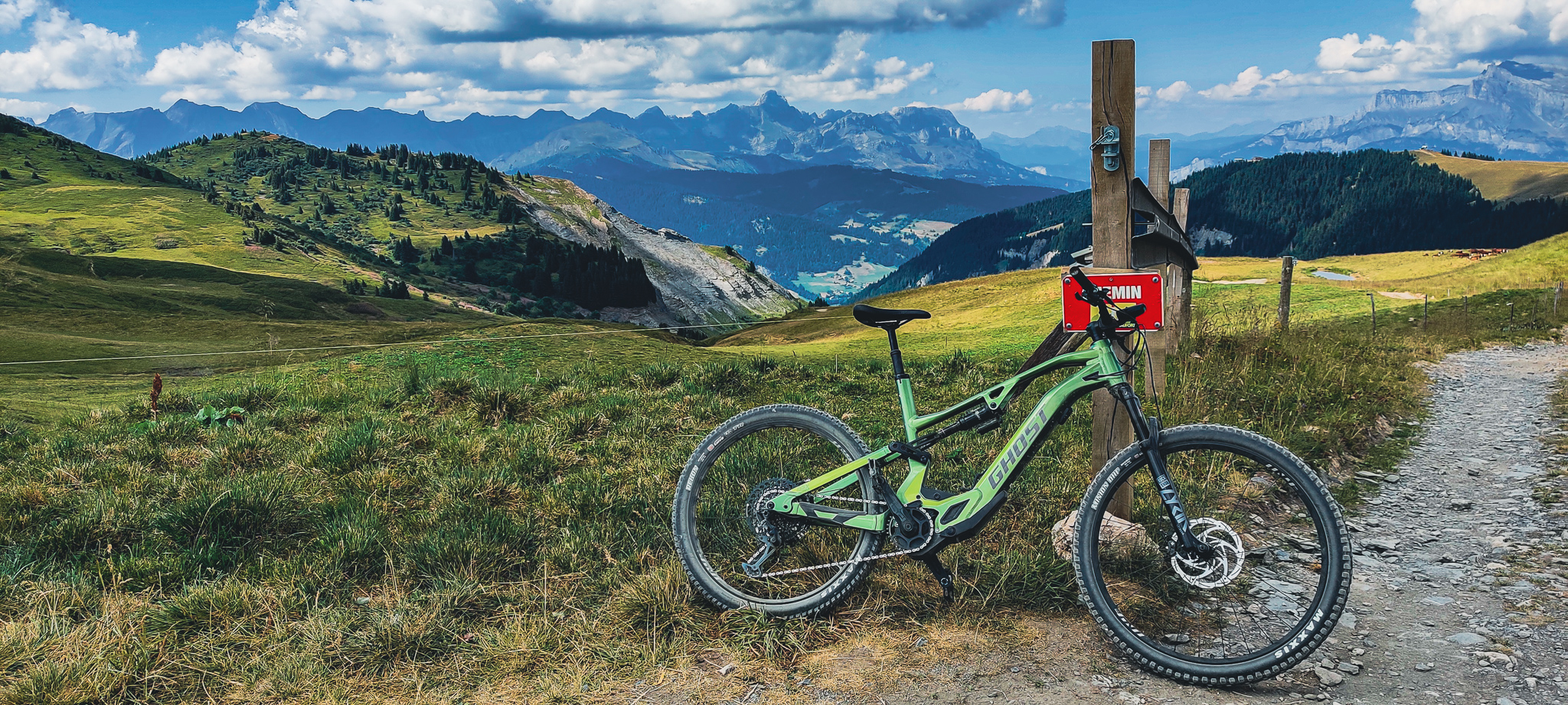
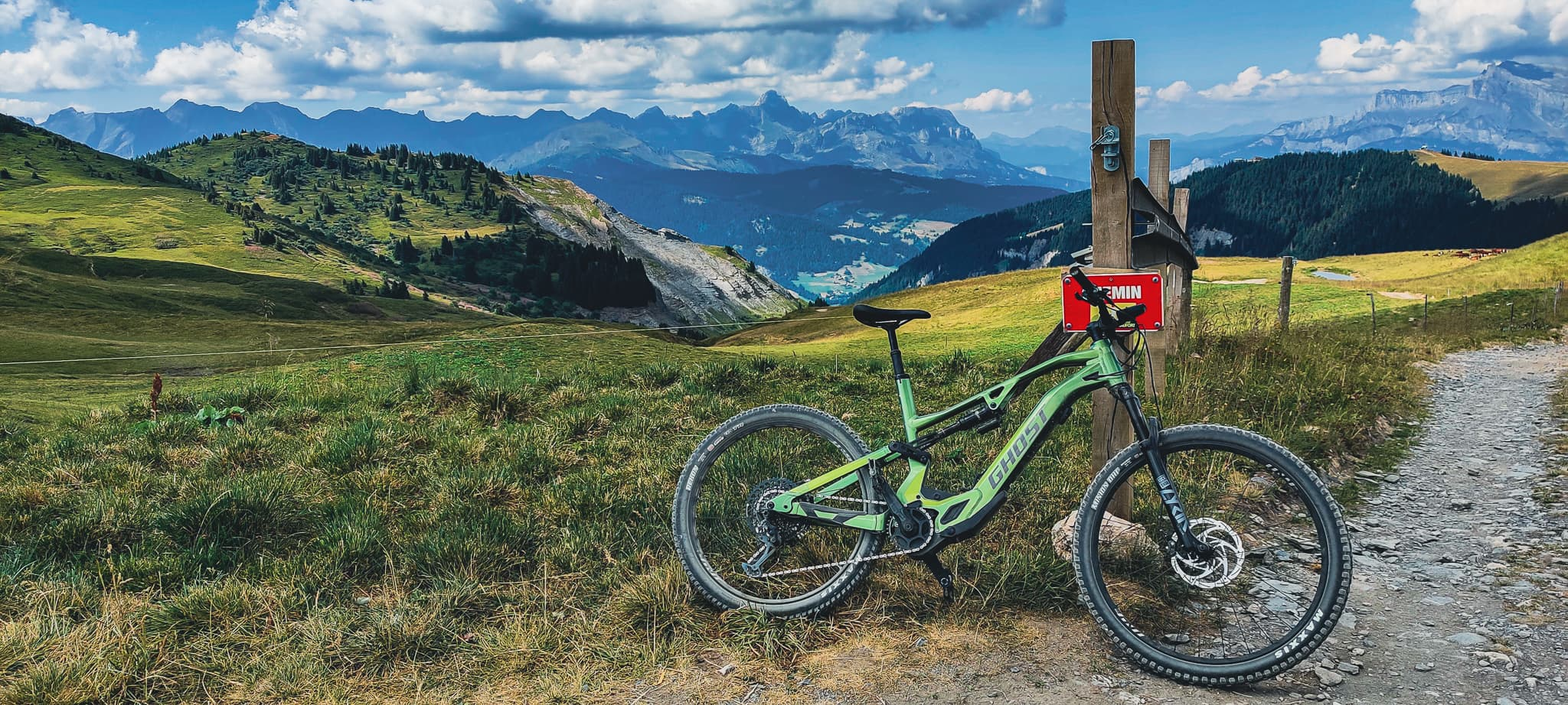
Better optimize images.

diff --git a/assets/css/main.scss b/assets/css/main.scss
@@ -6,10 +6,19 @@
 
 img {
   margin: 0;
-}
 
-img.cover {
-  width: 100%;
+  &.add-to-gallery {
+    display: block;
+    width: 100%;
+    height: auto;
+    min-width: 100%;
+    min-height: 50px;
+    background-color: #fafafa;
+  }
+
+  &.cover {
+    width: 100%;
+  }
 }
 
 sup {
